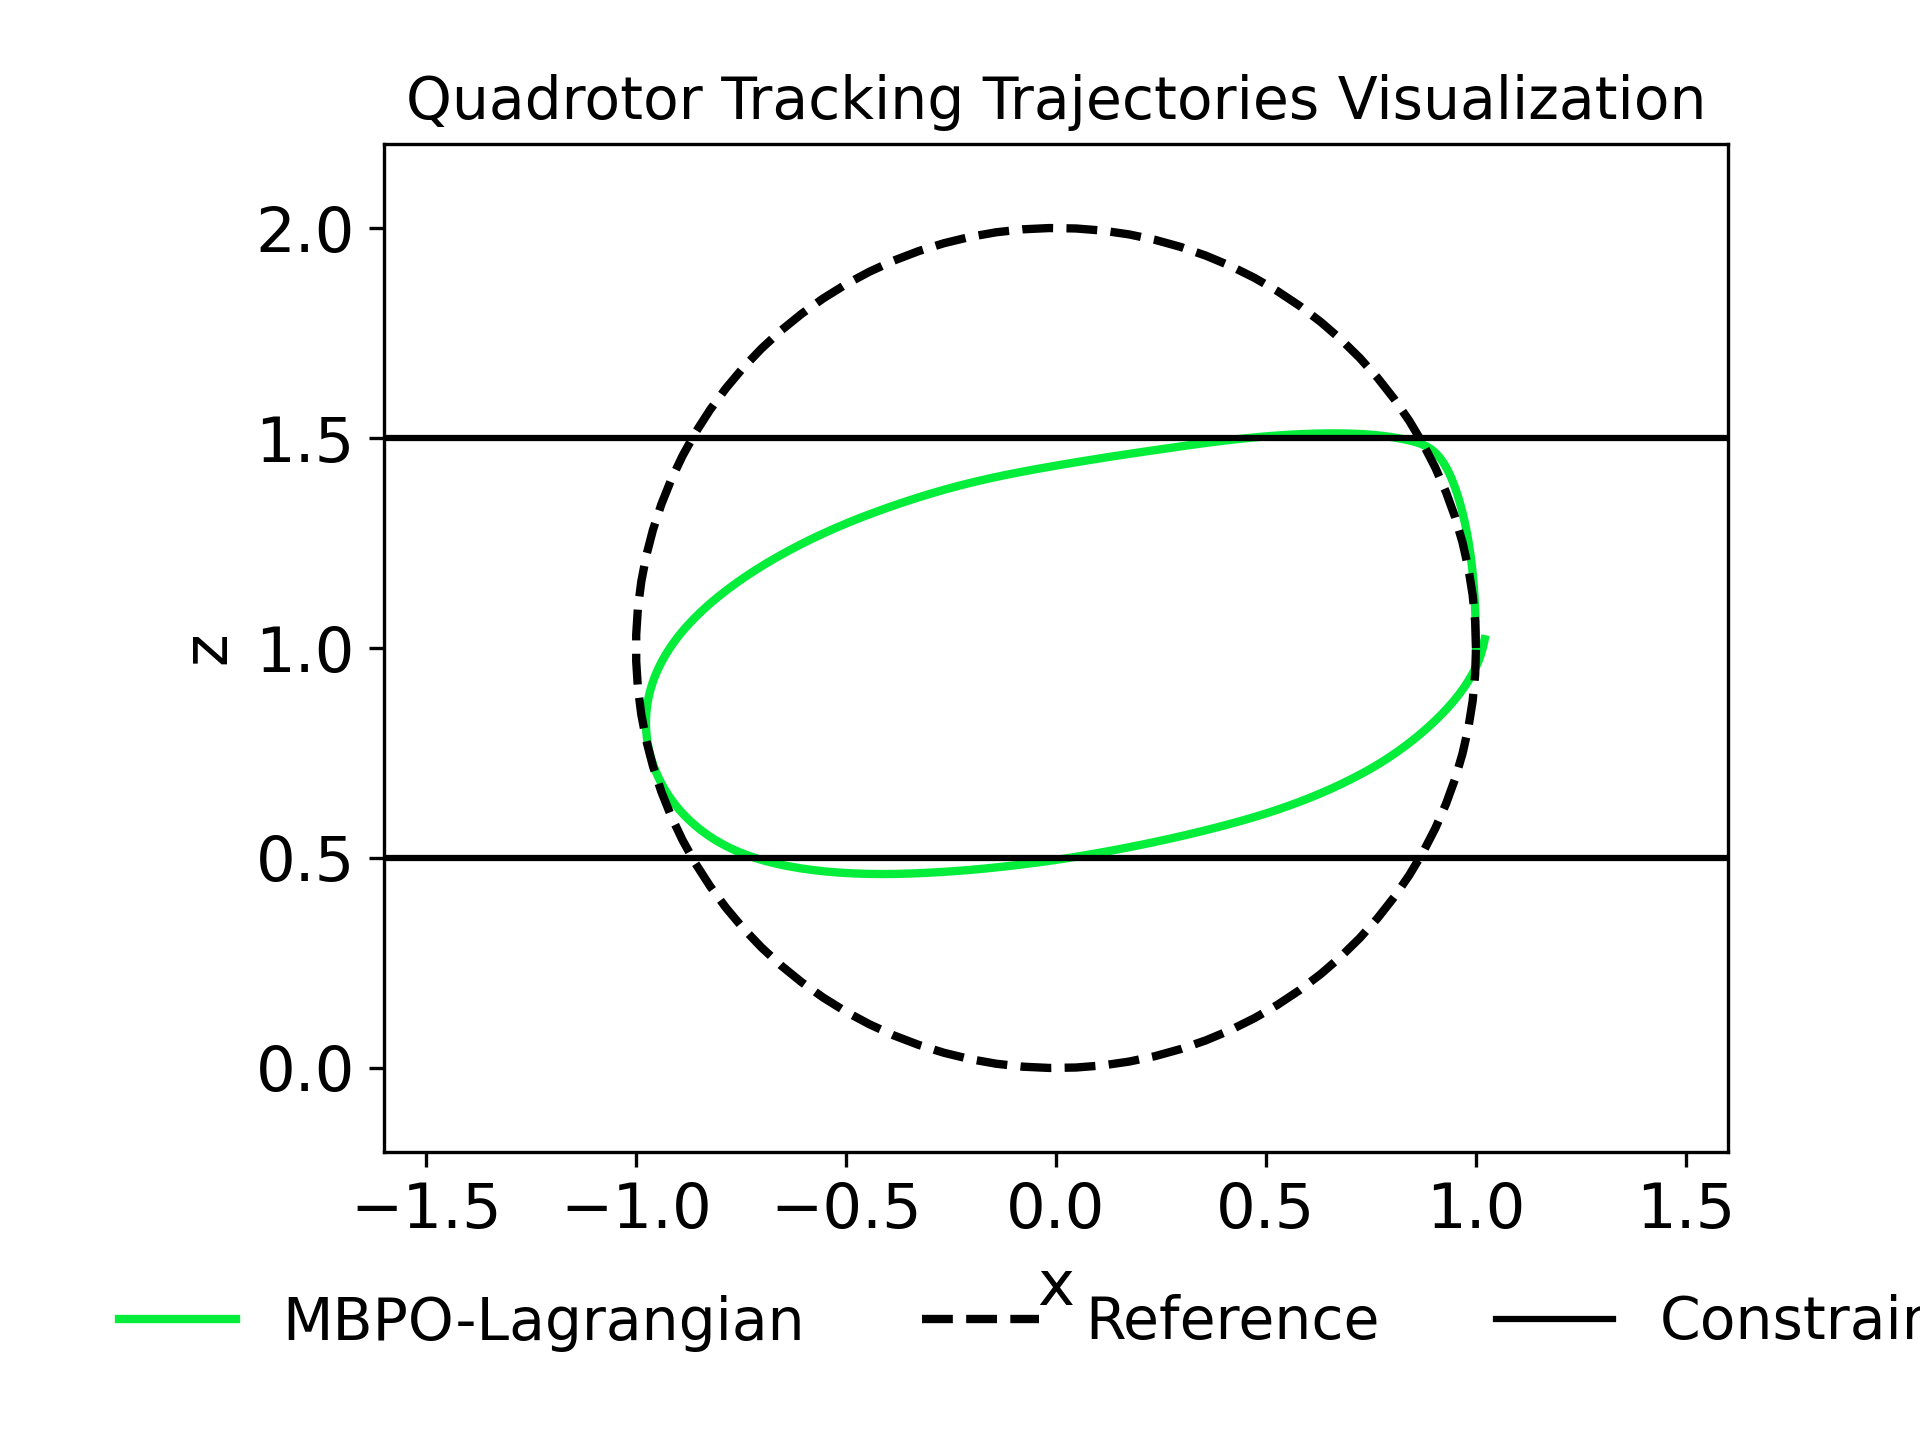
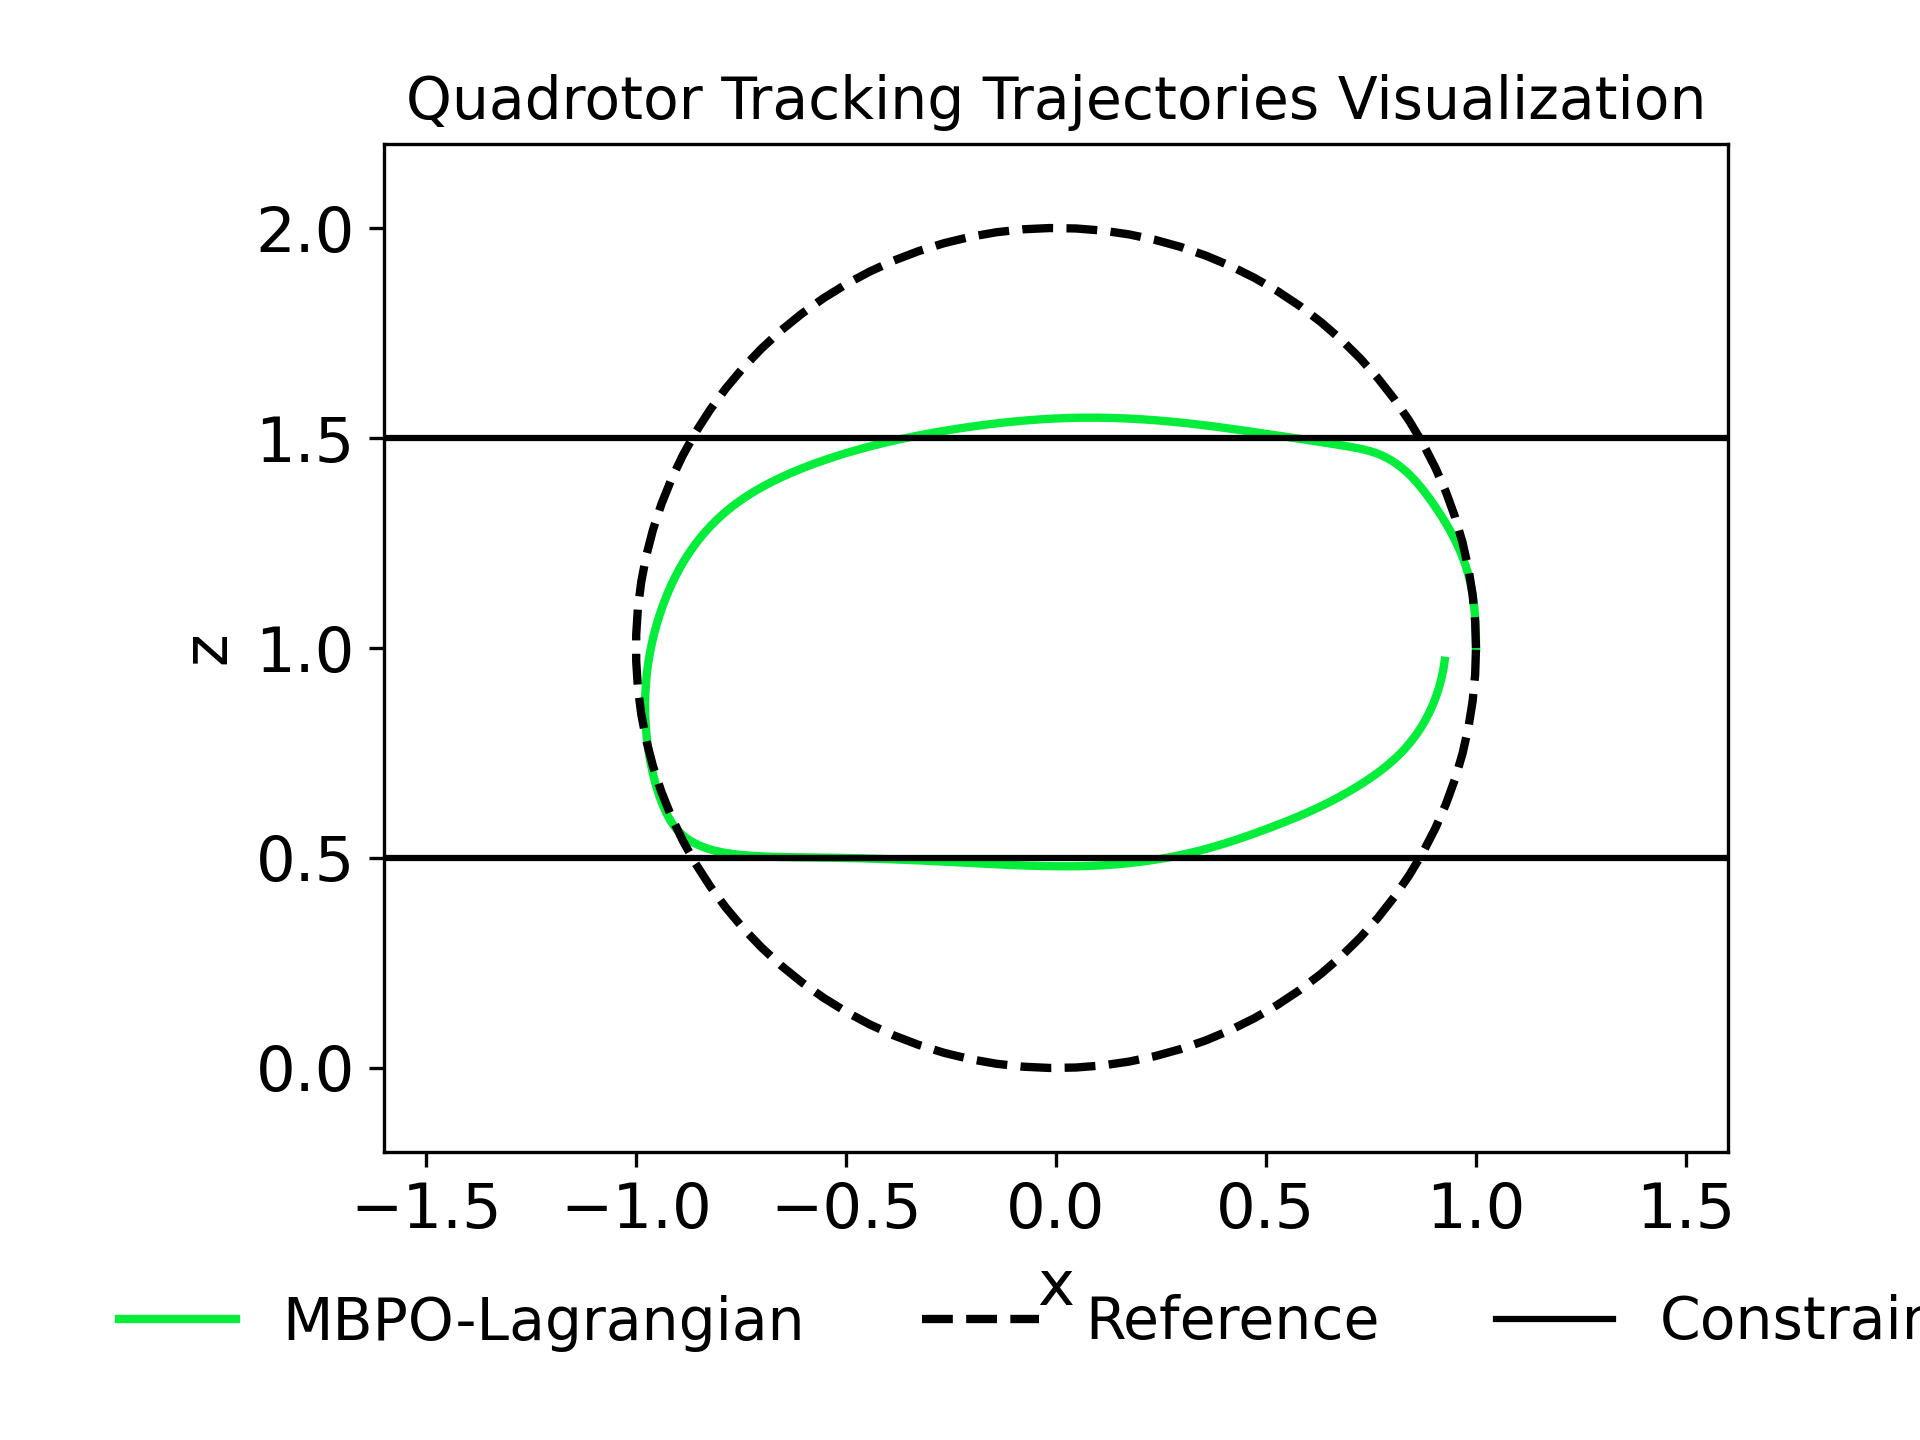
learn lam and set max-lam

diff --git a/src/ssac.py b/src/ssac.py
@@ -61,20 +61,18 @@ class ConstraintCritic(Configurable, Module):
 class MLPMultiplier(Configurable, Module):
     class Config(BaseConfig) :
         hidden_layers = 2
-        hidden_dim = 128
+        hidden_dim = 256
 
-    def __init__(self, config, state_dim):
+    def __init__(self, config, state_dim, max_multiplier=100):
         Configurable.__init__(self, config)
         Module.__init__(self)
-        dims = [1, *([self.hidden_dim] * self.hidden_layers), 1]
+        dims = [state_dim+1, *([self.hidden_dim] * self.hidden_layers), 1]
         self.lam = mlp(dims, activation='tanh', output_activation='identity', squeeze_output=True)
+        self.max_lam = max_multiplier
     
-    def forward(self, state, Qc):
-        # sa = torch.cat([state, Qc], 1)
-        sa = Qc.unsqueeze(-1)
-        # print("state.size()", state.size())
-        # print("Qc.size()", Qc.size())
-        lam = 10.0 + 10.0 * torch.tanh(self.lam(sa))
+    def forward(self, state, Qc):  # TODO:state input, lambda_max as hyperparameter
+        sa = torch.cat([state, Qc.unsqueeze(-1)], 1)
+        lam = self.max_lam/2 + self.max_lam/2 * torch.tanh(self.lam(sa)/self.max_lam*2)
         return lam
 
 
@@ -112,6 +110,7 @@ class SSAC(BasePolicy, Module):
         constraint_threshold = 0.
         constrained_fcn = 'reachability'
         mlp_multiplier = True
+        max_multiplier = 50.0
         penalty_lb = -1.0
         penalty_ub = 100.
         # penalty_offset = 1.0
@@ -184,7 +183,7 @@ class SSAC(BasePolicy, Module):
 
         # -------- multiplier for safety -------- #
         if self.mlp_multiplier:
-            self.multiplier = MLPMultiplier(self.mlp_multiplier_cfg, state_dim)
+            self.multiplier = MLPMultiplier(self.mlp_multiplier_cfg, state_dim, self.max_multiplier)
             self.multiplier_optimizer = optimizer_factory(self.multiplier.parameters(), lr=self.multiplier_lr, weight_decay=1e-4)
             self.multiplier_lr_scheduler = torch.optim.lr_scheduler.CosineAnnealingLR(
                 self.multiplier_optimizer,
@@ -397,11 +396,11 @@ class SSAC(BasePolicy, Module):
             
             '''Special lam loss
             For safe states, learn their lam: 0 or finite vlaues
-            For unsafe states, want their lams to be close to 19, a large penalty
-                why 19.0: because the upperbound of lams is 20, to avoid grad vanishing
+            For unsafe states, want their lams to be close to max_multiplier - 1, a large penalty
+                why - 1: because the upperbound of lams is max_multiplier, to avoid grad vanishing
             '''
-            lam_loss = -0.2 * torch.mean(torch.mul(lams_safe, penalty.detach())) + \
-                       self.criterion(lams_unsafe, (safe_Qc>0) * 19.0)
+            lam_loss = -0.5 * torch.mean(torch.mul(lams_safe, penalty.detach())) + \
+                       self.criterion(lams_unsafe, (safe_Qc>0) * (self.max_multiplier - 1))
         else:
             lams = self.lam
             lam_loss = -torch.mean(torch.mul(lams, penalty.detach()))

diff --git a/src/viz_quadrotor/viz_trj.py b/src/viz_quadrotor/viz_trj.py
@@ -80,7 +80,7 @@ if __name__ == '__main__':
     # MBPO-L
     trj_MBPO = plt_trajectory(
         ax, 'MBPO-Lagrangian',
-        LOGS_DIR / '06-23-22_15.01.15_vzex' / 'test-2022-06-23-16-45-52'
+        LOGS_DIR / '06-25-22_00.35.53_domi' / 'test-2022-06-25-07-54-41'
     )
 
     # Plot constraint and ref

diff --git a/src/defaults.py b/src/defaults.py
@@ -7,4 +7,4 @@ ACTOR_LR = 1e-4
 CRITIC_LR = 1e-3
 
 # ROOT_DIR = None    # set a path (directory) where experiments should be saved
-ROOT_DIR = '/home/yudongjie/zwj_projects/Safe_MBRL'
+ROOT_DIR = '/home/zouwj20/git_code/Safe-MBRL'
